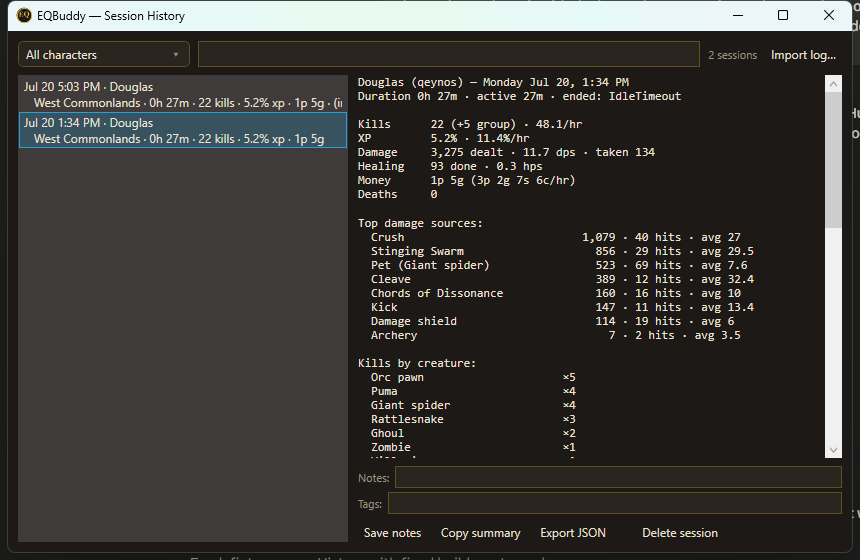
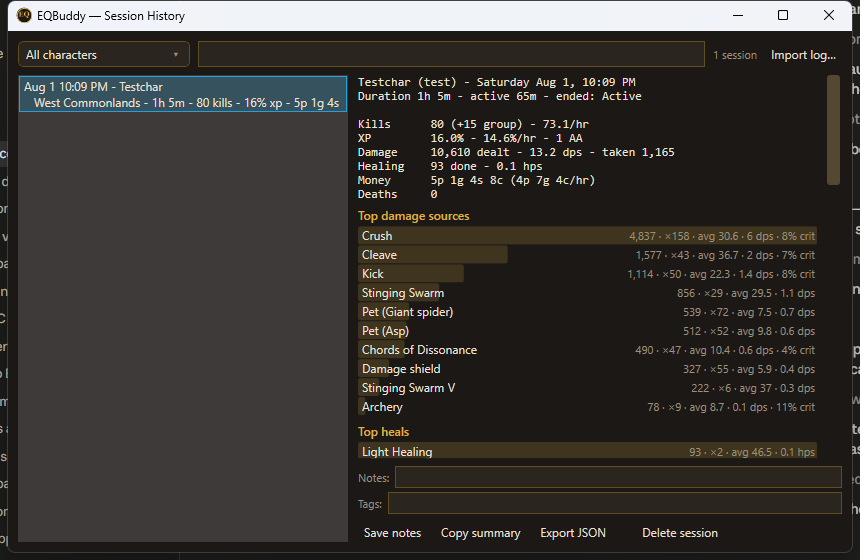
Fresh screenshots, and the white-window bug they flushed out
Regenerated every README screenshot from the current build via the
fixture-profile recipe: compact, expanded (Last fight block, pet
abilities, cast completion), Watch card with a live camp countdown,
mini pill + alert banner, Session History with a selected session, and
two new shots — the Spawns window with three staggered countdowns, and
Options with the 1.20.0 spawn-tracking checkbox. README grid gains a
row for the new pair. widget-seethrough is untouched: it shows the real
game behind the widget, which a fixture can't reproduce.

The screenshot pass found a real bug: Session History rendered solid
white — fully laid out per UI Automation, blank on screen, through both
the menu path and the debug hook. Bisecting builds from v1.8.1 (which
produced a good screenshot of this very window on this very machine two
weeks ago) to current showed them ALL white now, so the trigger was a
machine change (GPU driver / OS update breaking WPF's hardware path),
confirmed by WPF's DisableHWAcceleration registry switch curing it.
History was the app's only hardware-rendered window — every other
window is layered (AllowsTransparency) and therefore software-rendered
already. Fix: ProcessRenderMode = SoftwareOnly at startup, so all
windows share the one rendering path that demonstrably works. Cost is
unmeasurable at this scale; a History window that always paints beats a
hardware path only one window ever used.

diff --git a/src/EQBuddy/App.xaml.cs b/src/EQBuddy/App.xaml.cs
@@ -69,6 +69,16 @@ public partial class App : Application
     protected override void OnStartup(StartupEventArgs e)
     {
         base.OnStartup(e);
+        // Every EQBuddy window but Session History is layered (AllowsTransparency), which
+        // WPF renders in software. The lone hardware-rendered window came up solid white —
+        // fully laid out per UI Automation, blank on screen — on a machine whose GPU path
+        // WPF stopped driving after a driver/OS update (2026-08-01: reproduced across app
+        // builds three months apart, cured by WPF's DisableHWAcceleration switch). One
+        // rendering path for everything: for a widget this size the cost is unmeasurable,
+        // and a History window that always paints beats a hardware path only one window
+        // ever used.
+        System.Windows.Media.RenderOptions.ProcessRenderMode =
+            System.Windows.Interop.RenderMode.SoftwareOnly;
         Core.CoreLog.Sink = LogError;
         if (!ClaimSingleInstance())
         {

diff --git a/README.md b/README.md
@@ -23,6 +23,8 @@ page instead.
 | Full drill-down: damage per skill/spell/pet, recent fights with per-fight DPS, damage and DPS by stance | Watch rules (loot, kills, skill-ups…) with per-hour rates, per-creature farming stats, merchant sales |
 | ![Session history](docs/screenshots/history-window.png) | ![See-through mode](docs/screenshots/widget-seethrough.png) |
 | Every session lands in a local, searchable history — notes, tags, compare, export | Background see-through — watch the game right through the widget |
+| ![Spawn timers](docs/screenshots/spawns-window.png) | ![Options](docs/screenshots/options-window.png) |
+| Spawn timers — kill a named (or its placeholder) and the respawn countdown starts from the log; every duration editable | Options — themes, watch rules with worked examples, spawn tracking, per-rule sounds |
 
 ## For players (install guide)
 
